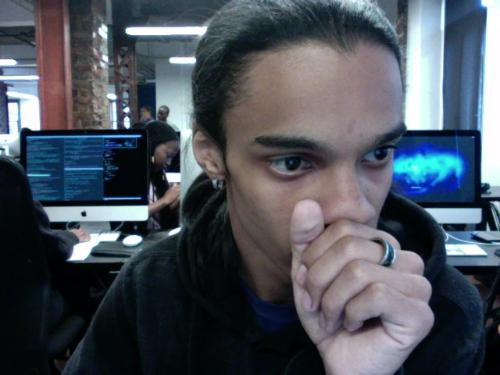
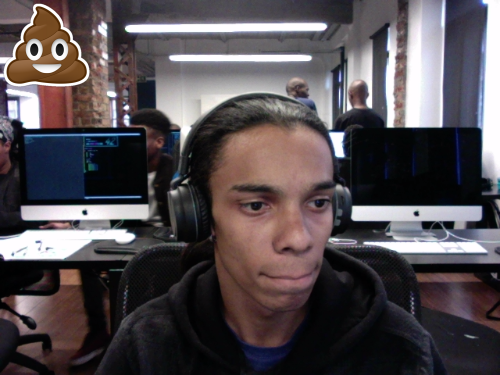
good work

diff --git a/webupload.php b/webupload.php
@@ -5,22 +5,21 @@
      $user = new user();
     $imgnum = $db->get("gallery",array('user_id', '=', $user->data()->user_id));
     $data = explode( ',', $_POST["img64"] );
-    $emo = $_POST['emoji64'];
+    $emo = $_POST["emoji64"]; //explode( '/', $_POST["emoji64"] );
     $test = base64_decode($data[1]);
 //try imgcreate
     $user_id = $user->data()->user_id;
-    // $img_id = $imgnum->first()->img_id;
     file_put_contents("images/gallary/".$user_id."1.png", $test);
+
     $dest= imagecreatefrompng("images/gallary/".$user_id."1.png");
 
     $src = imagecreatefrompng($emo);
-    imagecopymerge($dest, $src, 10, 10, 0, 0, 100, 47, 75);
-//    echo "<img src=".$emo."><br>";
-    // header('Content-Type: image/png');
-    // imagepng($dest);
-    imagejpeg($dest, 'images/gallary/'.$user_id.'2.png');
+    $width = ImageSx($src);
 
-    //file_put_contents("images/gallary/".$user_id."2.png", imagecopymerge($src, $dest, 10, 10, 0, 0, 100, 47, 75));
-   // echo imagepng($dest);
+    $height = ImageSy($src);
+    $x = $width/4; $y = $height/4;
+    ImageCopyResampled($dest,$src,0,0,0,0,$x,$y,$width,$height);
+    imagepng($dest, 'images/gallary/'.$user_id.'2.png');
+
 
 ?>
